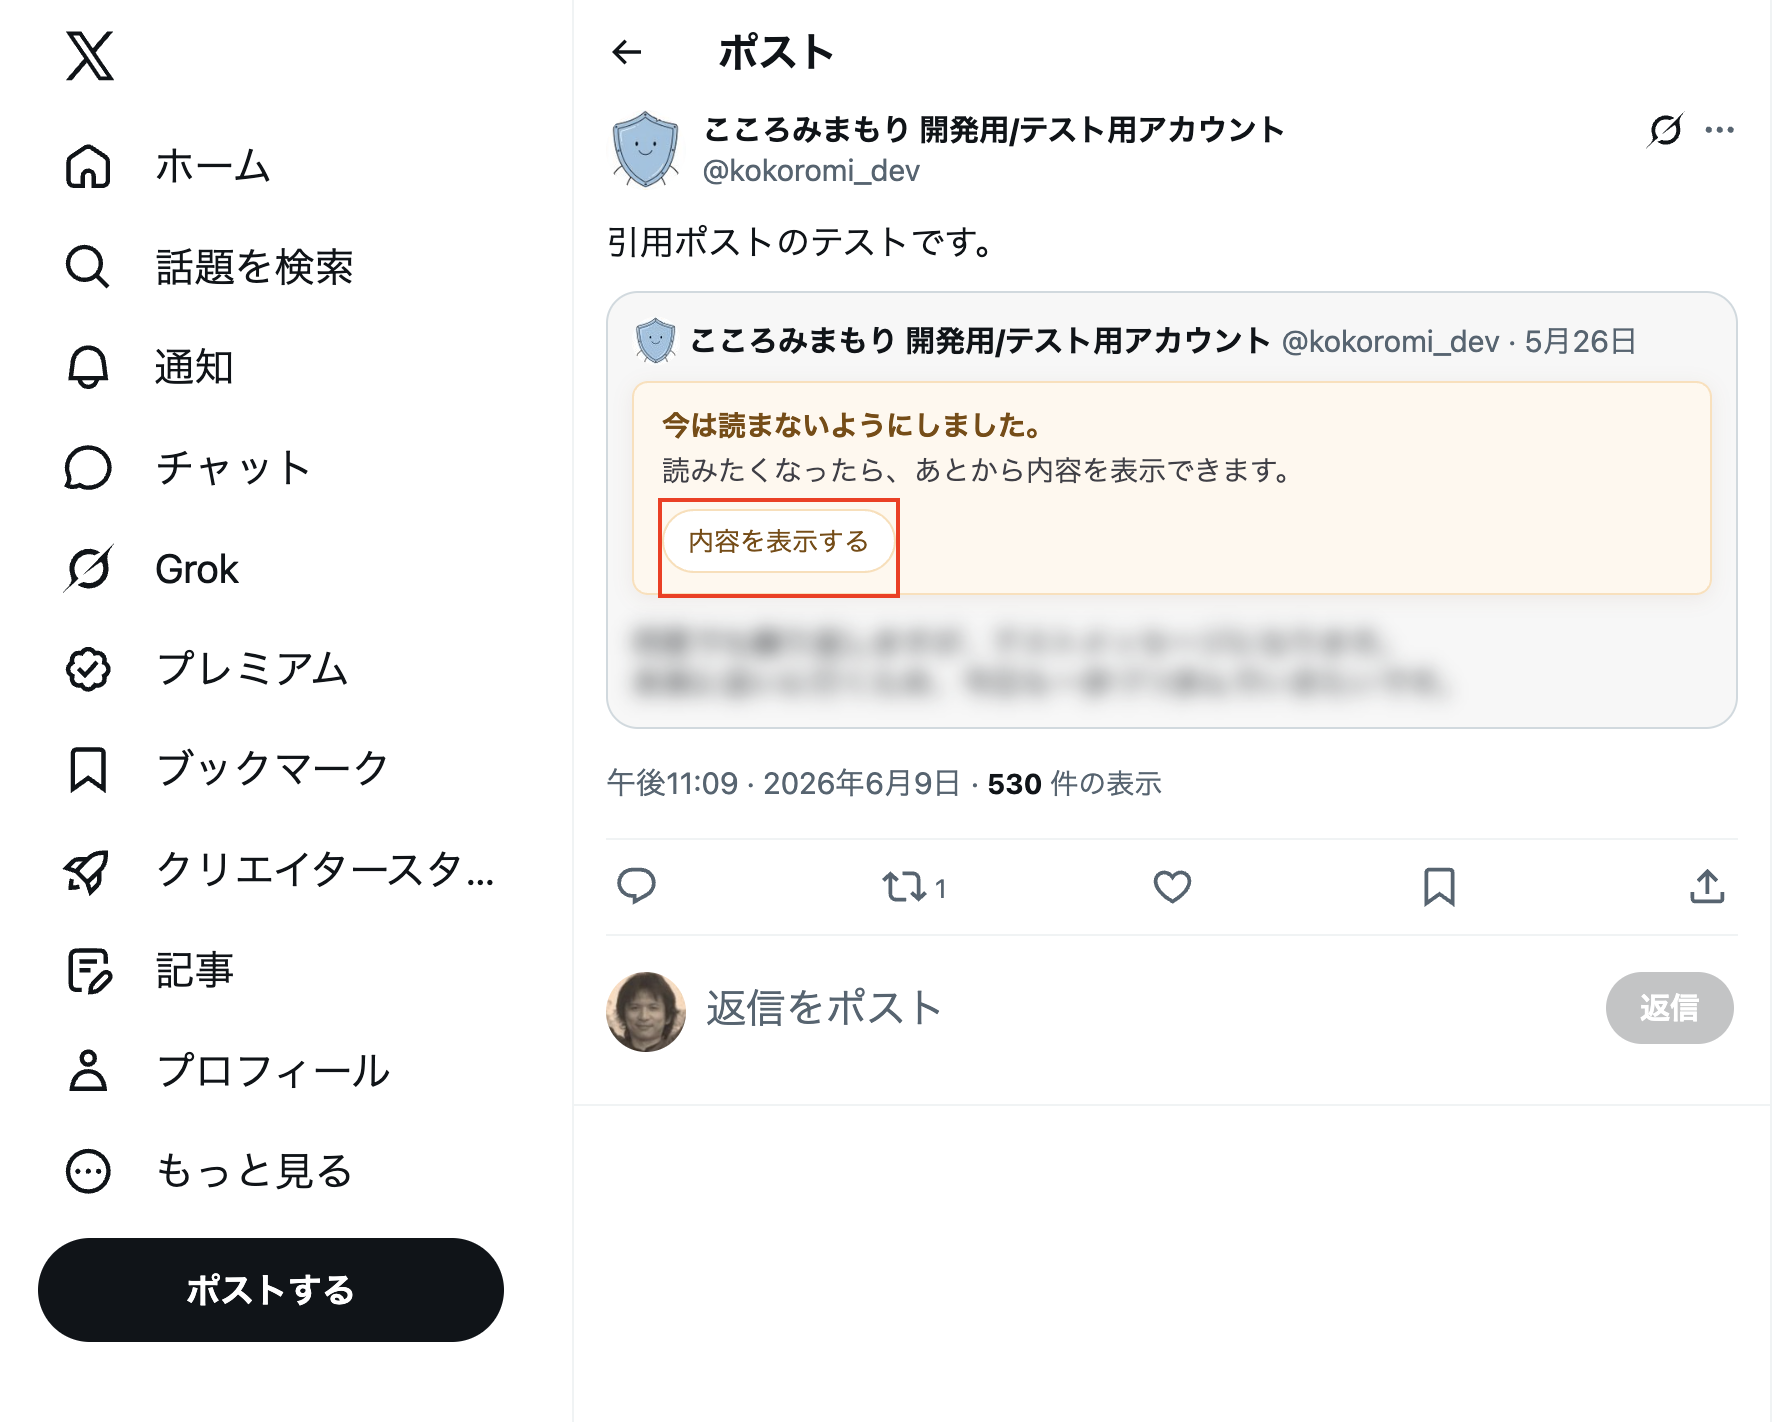
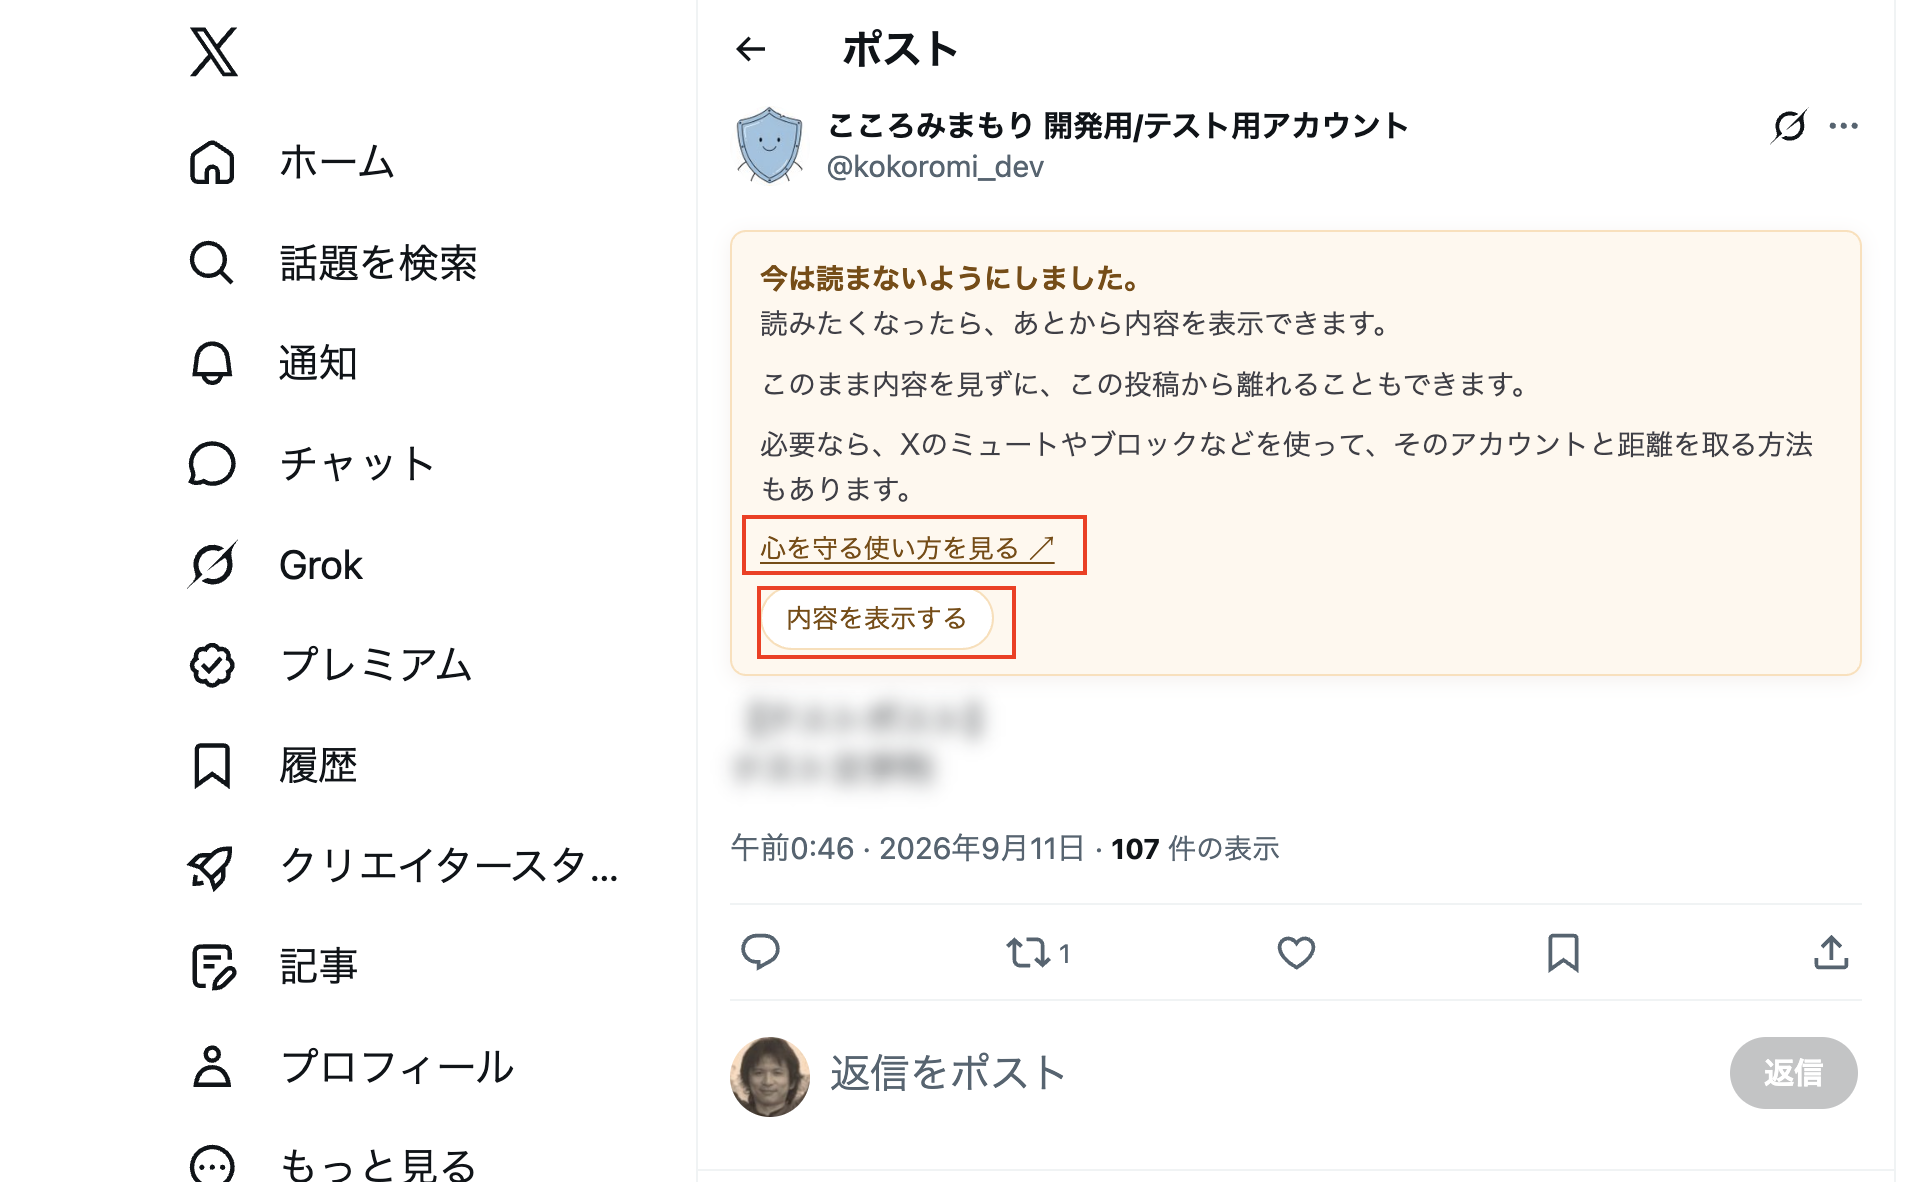
docs: 今は見ない後の操作マニュアルを更新

diff --git a/docs/manual.html b/docs/manual.html
@@ -51,7 +51,7 @@
         <p class="lead">
           「ことばうけみまもり」を有効にすると、X（旧Twitter）で心に負荷がかかる可能性のある投稿について、読むか、今は読まないかを選ぶためのワンクッションが表示されます。
         </p>
-        <p class="last-updated">最終更新日：<time datetime="2026-09-17">2026年9月17日</time></p>
+        <p class="last-updated">最終更新日：<time datetime="2026-09-19">2026年9月19日</time></p>
       </header>
 
       <main class="content-card">
@@ -139,8 +139,8 @@
               <figcaption>X上で、表現の強さの目安と検知された表現の傾向を確認し、読むか、今は見ないかを選べます。</figcaption>
             </figure>
             <figure class="manual-figure">
-              <img src="./assets/img/manual/033_manual-collapsed-ja.png" alt="今は見ないを選んだ後、本文をぼかしたままあとから内容を表示できる日本語ワンクッションの画面">
-              <figcaption>「今は見ない」を選んだ後も、本文をぼかしたまま、あとから内容を表示できます。</figcaption>
+              <img src="./assets/img/manual/033_manual-collapsed-ja.png" alt="今は見ないを選んだ後、本文のぼかしを維持し、投稿から離れる案内、Xのミュート・ブロックなどで距離を取る案内、心を守る使い方へのリンク、内容を表示するボタンが表示されている日本語ワンクッションの画面">
+              <figcaption>本文のぼかしを維持したまま、投稿から離れることや距離を取る方法を確認でき、必要ならあとから内容を表示できます。</figcaption>
             </figure>
             <figure class="manual-figure">
               <img src="./assets/img/manual/028_manual-add-extensions-ja.png" alt="内容を表示するをクリックしてXの投稿本文が表示された画面">
@@ -308,14 +308,29 @@
         <section id="collapsed">
           <h2>6. 今は見ないを選んだ後</h2>
           <p>
-            「今は見ない」を選ぶと、今は読まない状態にできます。あとから読みたくなった場合は「内容を表示する」から確認できます。
+            「今は見ない」を選ぶと、今は読まない状態にできます。
           </p>
           <p>
-            この状態では、表現の強さや傾向のガイダンスは表示されません。一度選んだ「今は読まない」という判断を尊重し、繰り返し判断を迫らないための簡潔な表示です。
+            あとから読みたくなった場合は「内容を表示する」から確認できます。
+          </p>
+          <p>
+            このまま内容を見ずに投稿から離れることもできます。
+          </p>
+          <p>
+            必要な場合は、Xのミュートやブロックなどを使って相手のアカウントと距離を取る方法も案内します。
+          </p>
+          <p>
+            「<a href="https://na0aaooq.github.io/kotoba-uke-mimamori-for-x/protect-your-heart.html" target="_blank" rel="noopener noreferrer">心を守る使い方を見る</a>」から、心を守るための補助情報も確認できます。
+          </p>
+          <p>
+            この状態では、表現の強さや傾向のガイダンスは表示されません。
+          </p>
+          <p>
+            一度選んだ「今は読まない」という判断を尊重し、繰り返し判断を迫らないための簡潔な表示です。
           </p>
           <figure class="manual-figure">
-            <img src="./assets/img/manual/033_manual-collapsed-ja.png" alt="今は見ないを選んだ後、本文のぼかしを維持しながらあとから内容を表示できる日本語ワンクッションの画面">
-            <figcaption>本文のぼかしを維持し、ガイダンスを繰り返さず、あとから内容を表示できます。</figcaption>
+            <img src="./assets/img/manual/033_manual-collapsed-ja.png" alt="今は見ないを選んだ後、本文のぼかしを維持し、投稿から離れる案内、Xのミュート・ブロックなどで距離を取る案内、心を守る使い方へのリンク、内容を表示するボタンが表示されている日本語ワンクッションの画面">
+            <figcaption>本文のぼかしを維持したまま、投稿から離れることや距離を取る方法を確認でき、必要ならあとから内容を表示できます。</figcaption>
           </figure>
         </section>
 

diff --git a/docs/en/manual.html b/docs/en/manual.html
@@ -53,7 +53,7 @@
           reading wording on X that may feel emotionally heavy. You can choose
           whether to read the content or not read it now.
         </p>
-        <p class="last-updated">Last updated: <time datetime="2026-09-17">September 17, 2026</time></p>
+        <p class="last-updated">Last updated: <time datetime="2026-09-19">September 19, 2026</time></p>
       </header>
 
       <main class="content-card">
@@ -145,8 +145,8 @@
               <figcaption>Confirm the guidance and choose whether to show the content or not read it now.</figcaption>
             </figure>
             <figure class="manual-figure">
-              <img src="../assets/img/manual/036_manual-collapsed-en.png" alt="The English collapsed cushion after choosing Not now, with the post blurred and Show content still available">
-              <figcaption>After choosing &quot;Not now&quot;, the post stays blurred and you can still show the content later.</figcaption>
+              <img src="../assets/img/manual/036_manual-collapsed-en.png" alt="The English cushion after choosing Not now, with the post still blurred, guidance about leaving the post or using X features such as mute or block, a Learn more about protecting your peace of mind link, and Show content still available">
+              <figcaption>The post remains blurred while options for leaving the post or taking some distance are shown, and Show content remains available for later.</figcaption>
             </figure>
             <figure class="manual-figure">
               <img src="../assets/img/manual/028_manual-add-extensions-ja.png" alt="The post text shown on X after choosing Show content">
@@ -296,15 +296,29 @@
         <section id="collapsed">
           <h2>4. After choosing Not now</h2>
           <p>
-            If you choose &quot;Not now&quot;, the post stays blurred for now. You
-            can still choose &quot;Show content&quot; later if you want to read it.
+            If you choose &quot;Not now&quot;, the post stays blurred for now.
           </p>
           <p>
-            The intensity and pattern guidance is not shown in this state. This keeps the display simple after you have chosen not to read for now, without asking you to decide again.
+            You can still choose &quot;Show content&quot; later if you want to read it.
+          </p>
+          <p>
+            You can also leave the post without viewing the content.
+          </p>
+          <p>
+            If needed, you can use features on X, such as mute or block, to give yourself some distance from that account.
+          </p>
+          <p>
+            You can also choose &quot;<a href="https://na0aaooq.github.io/kotoba-uke-mimamori-for-x/en/protect-your-heart.html" target="_blank" rel="noopener noreferrer">Learn more about protecting your peace of mind</a>&quot; to view additional guidance.
+          </p>
+          <p>
+            The intensity and pattern guidance is not shown in this state.
+          </p>
+          <p>
+            This keeps the display simple after you have chosen not to read for now, without asking you to decide again.
           </p>
           <figure class="manual-figure">
-            <img src="../assets/img/manual/036_manual-collapsed-en.png" alt="The English collapsed cushion after choosing Not now, with the post blurred and Show content still available">
-            <figcaption>The post remains blurred, the guidance is not repeated, and Show content stays available.</figcaption>
+            <img src="../assets/img/manual/036_manual-collapsed-en.png" alt="The English cushion after choosing Not now, with the post still blurred, guidance about leaving the post or using X features such as mute or block, a Learn more about protecting your peace of mind link, and Show content still available">
+            <figcaption>The post remains blurred while options for leaving the post or taking some distance are shown, and Show content remains available for later.</figcaption>
           </figure>
         </section>
 

diff --git a/tests/docs.test.js b/tests/docs.test.js
@@ -459,7 +459,7 @@ function testChromeWebStoreManual() {
     ],
     [
       './assets/img/manual/033_manual-collapsed-ja.png',
-      '本文をぼかしたまま、あとから内容を表示できます。'
+      '本文のぼかしを維持したまま、投稿から離れることや距離を取る方法を確認でき、必要ならあとから内容を表示できます。'
     ],
     [
       './assets/img/manual/028_manual-add-extensions-ja.png',
@@ -495,7 +495,7 @@ function testChromeWebStoreManual() {
     ],
     [
       '../assets/img/manual/036_manual-collapsed-en.png',
-      'the post stays blurred and you can still show the content later.'
+      'The post remains blurred while options for leaving the post or taking some distance are shown, and Show content remains available for later.'
     ],
     [
       '../assets/img/manual/028_manual-add-extensions-ja.png',
@@ -514,8 +514,8 @@ function testStep8ManualImageUpdates() {
     '※画面内のバージョン番号は画面撮影時点のものです。バージョン番号の違いは操作方法に影響ありません。';
   const englishVersionNote =
     'Note: The version number shown in screenshots reflects the version at the time of capture and does not affect these instructions.';
-  const japaneseManualDate = '最終更新日：<time datetime="2026-09-17">2026年9月17日</time>';
-  const englishManualDate = 'Last updated: <time datetime="2026-09-17">September 17, 2026</time>';
+  const japaneseManualDate = '最終更新日：<time datetime="2026-09-19">2026年9月19日</time>';
+  const englishManualDate = 'Last updated: <time datetime="2026-09-19">September 19, 2026</time>';
 
   assertOrderedIncludes(jaManual, [
     './assets/img/manual/029_manual-popup-ja-off-auto.png',
@@ -539,6 +539,16 @@ function testStep8ManualImageUpdates() {
   assert.equal(countOccurrences(enManual, englishVersionNote), 1);
   assert.equal(countOccurrences(jaManual, japaneseManualDate), 1);
   assert.equal(countOccurrences(enManual, englishManualDate), 1);
+  assert.ok(
+    jaManual.includes(
+      '<a href="https://na0aaooq.github.io/kotoba-uke-mimamori-for-x/protect-your-heart.html" target="_blank" rel="noopener noreferrer">心を守る使い方を見る</a>'
+    )
+  );
+  assert.ok(
+    enManual.includes(
+      '<a href="https://na0aaooq.github.io/kotoba-uke-mimamori-for-x/en/protect-your-heart.html" target="_blank" rel="noopener noreferrer">Learn more about protecting your peace of mind</a>'
+    )
+  );
   assert.ok(enManual.includes('<h3>Detailed settings</h3>'));
   assert.ok(enManual.includes('Select &quot;Open detailed settings&quot; in the popup'));
   assert.ok(
@@ -1006,7 +1016,7 @@ function testDocumentLastUpdatedDates() {
     const html = readDoc(pagePath);
     const date =
       pagePath === 'manual.html'
-        ? '最終更新日：<time datetime="2026-09-17">2026年9月17日</time>'
+        ? '最終更新日：<time datetime="2026-09-19">2026年9月19日</time>'
         : pagePath === 'privacy.html'
           ? '最終更新日：<time datetime="2026-09-10">2026年9月10日</time>'
           : pagePath !== 'disclaimer.html'
@@ -1021,7 +1031,7 @@ function testDocumentLastUpdatedDates() {
     const html = readDoc(pagePath);
     const date =
       pagePath === 'en/manual.html'
-        ? 'Last updated: <time datetime="2026-09-17">September 17, 2026</time>'
+        ? 'Last updated: <time datetime="2026-09-19">September 19, 2026</time>'
         : pagePath === 'en/privacy.html'
           ? 'Last updated: <time datetime="2026-09-10">September 10, 2026</time>'
           : pagePath !== 'en/disclaimer.html'
